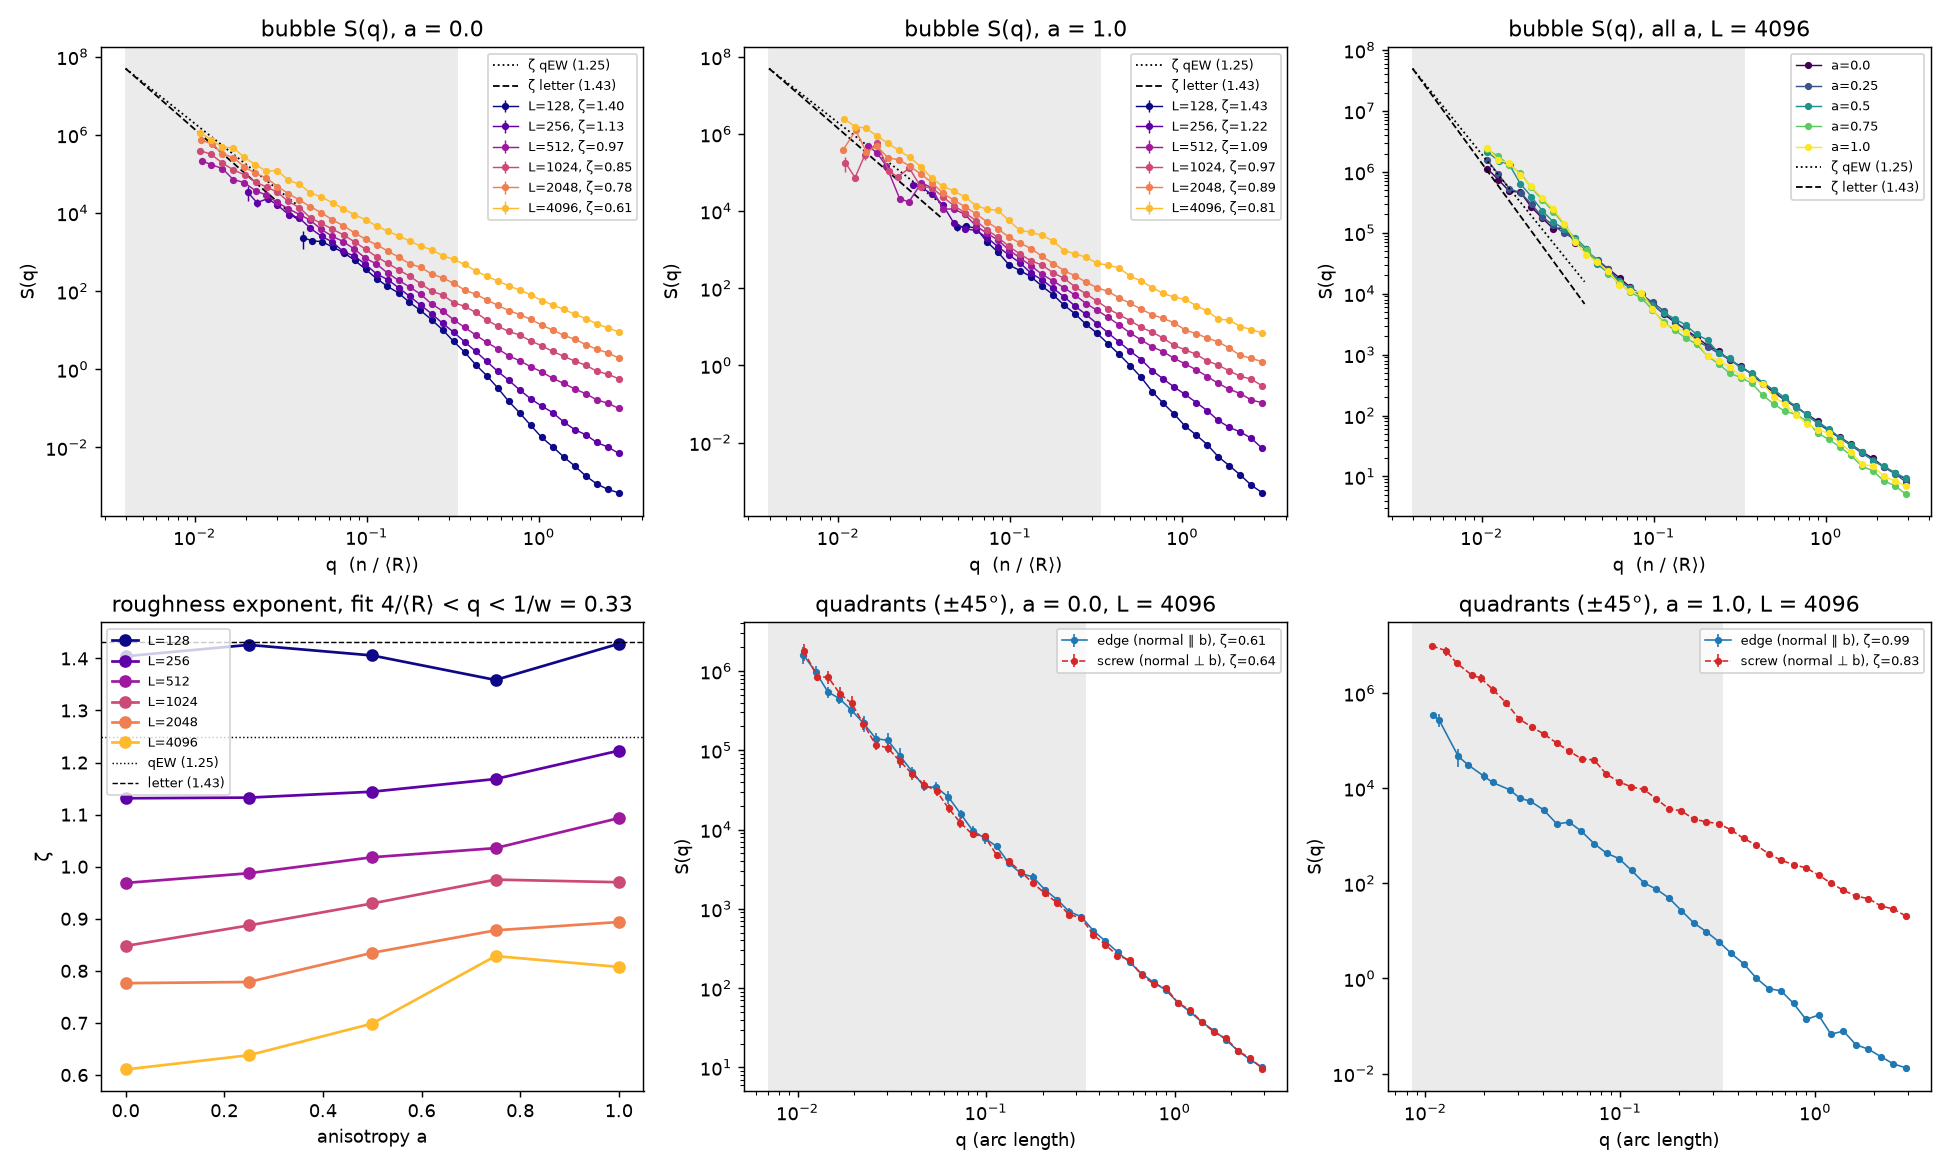
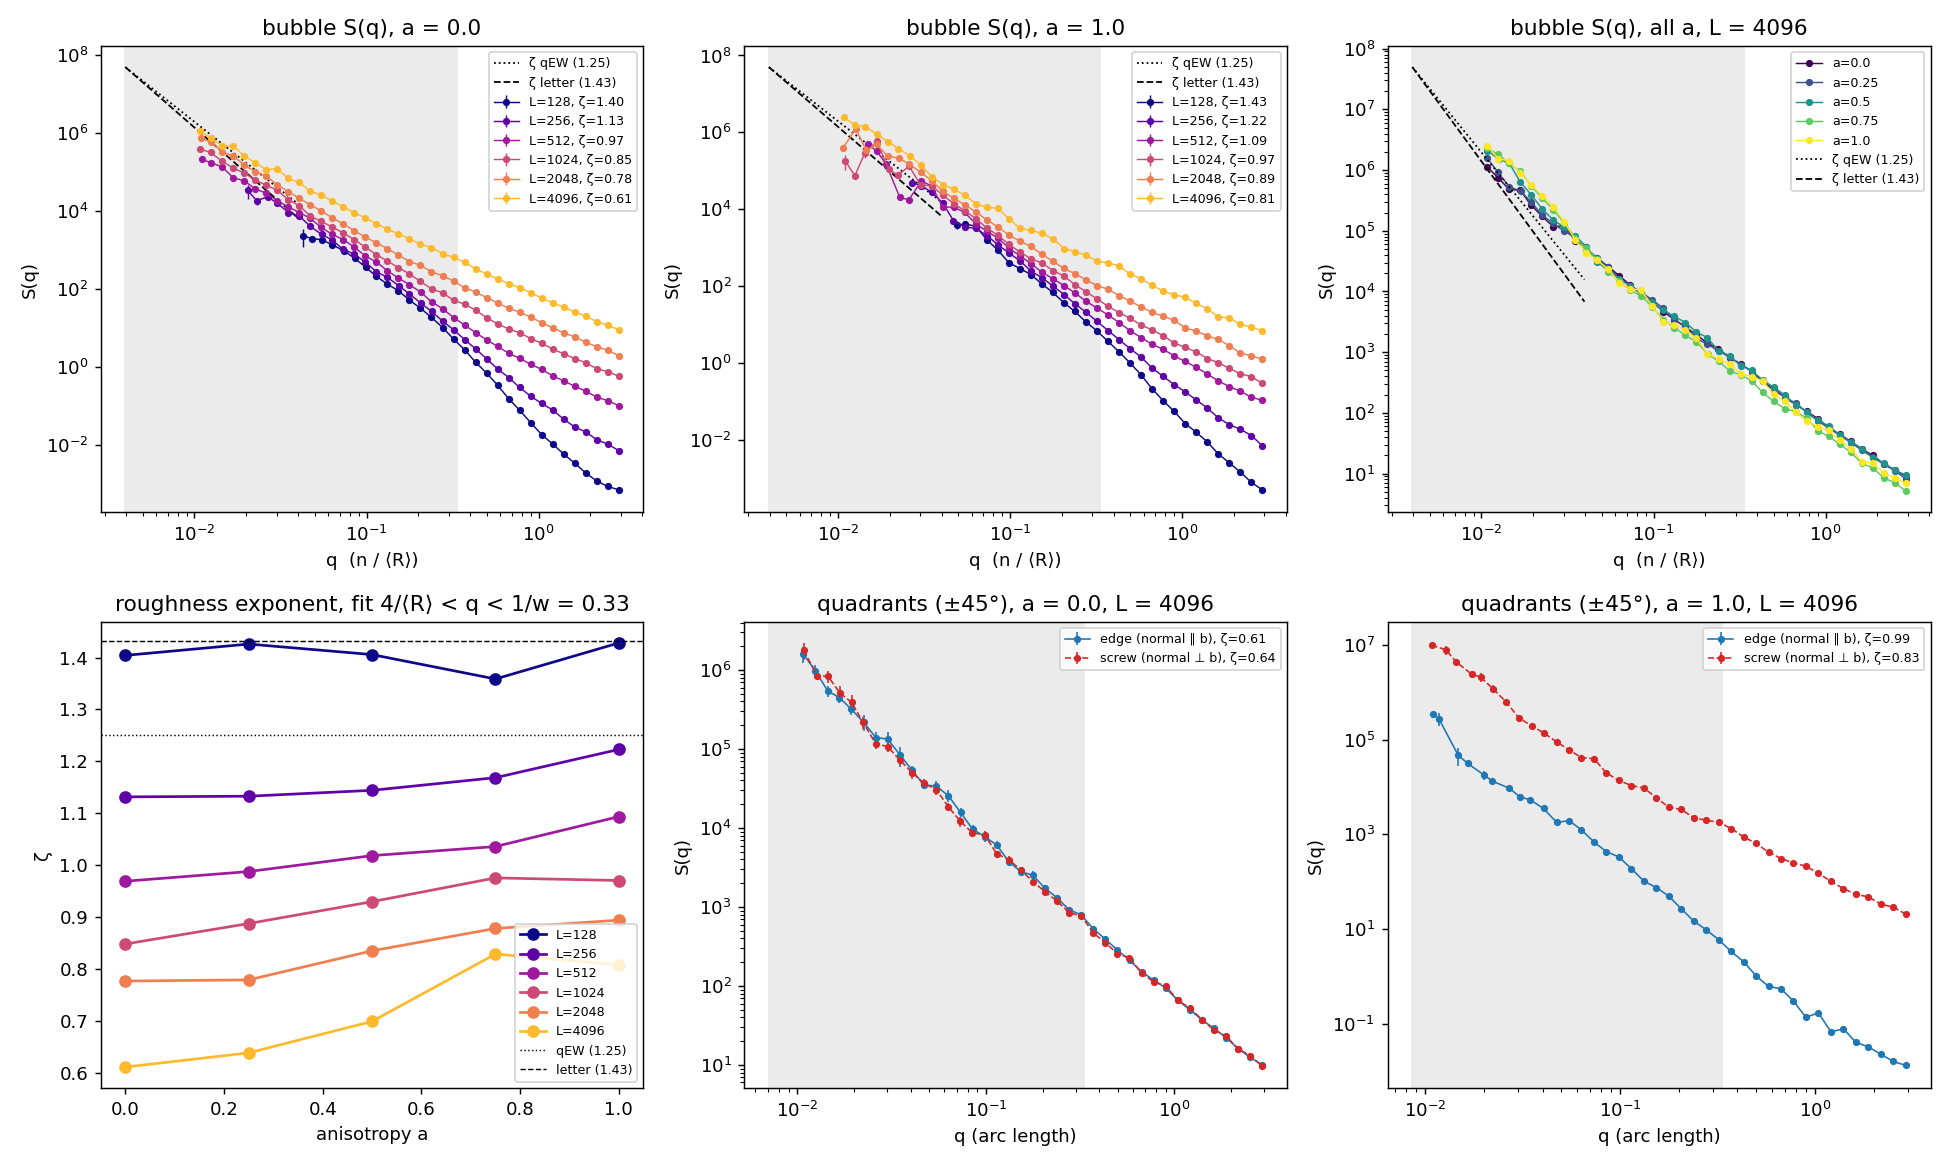
Threshold fit h_c + B/L - A L^(-1/nu) and ln L drift; replot L/6 and partial R32 series
<h_d>(L) has a minimum near L=1024, so the h_inf + B/L extrapolation is dropped.

diff --git a/bubble_sim/fss_analyze.py b/bubble_sim/fss_analyze.py
@@ -4,7 +4,19 @@ Analyse runs/fss/results*.jsonl produced by fss_scan.py (all shards).
 
 Per (anisotropy a, size L):
   * <h_d>, var(h_d)          -> var(h_d) ~ L^(-2/nu)  (fit per a)
-  * <h_d>(L)                 -> h_d(L) = h_inf + B / L  (bubble: Laplace pressure ~ 1/R_c ~ 1/L)
+  * <h_d>(L)                 -> h_d(L) = h_ref + C ln(L / L_max)   (fit L >= lmin)
+        <h_d> is not monotonic in L: the Laplace term ~ 1/R0 lowers it at small L,
+        but at large L it grows again (the wall has to cross the strongest pinning
+        region on its way to the border, and that grows with the swept area). An
+        extrapolation h_inf + B/L is therefore not meaningful; we report the local
+        drift C = d<h_d>/d ln L, the fitted value h_ref at the largest L, the
+        minimum of <h_d> over L, and chi^2/dof of both models.
+  * threshold                -> <h_d> = h_c + B/L - A L^(-1/nu)   (fit L >= lmin-hc)
+        B/L: Laplace pressure of a bubble of radius ~ L/6 (raises h_d at small L);
+        -A L^(-1/nu): usual finite-size shift of the sample threshold in an L x L box
+        (h_d is set by the strongest barrier the wall must cross; approaches h_c from
+        below). nu is fixed to the var(h_d) fit; the systematic error on h_c is half
+        the spread of h_c over nu +- its error.
   * shape anisotropy of the critical bubble:
         eps = (aspect - 1) / (aspect + 1),  theta = long-axis orientation
         Q_b = < eps cos 2(theta - theta_exp) >   theta_exp = burgers_angle + 90
@@ -48,6 +60,8 @@ def main():
     ap.add_argument("--lmin", type=int, default=512,
                     help="fit <h_d> and var(h_d) only for L >= lmin (small bubbles still remember "
                          "the initial circle and are dominated by the Laplace term)")
+    ap.add_argument("--lmin-hc", type=int, default=256,
+                    help="fit <h_d> = h_c + B/L - A L^(-1/nu) for L >= lmin-hc")
     args = ap.parse_args()
     import glob
     rows = [json.loads(l) for fn in sorted(glob.glob(os.path.join(args.dir, "results*.jsonl")))
@@ -104,16 +118,46 @@ def main():
         (ic, sl), cv = wls(np.c_[np.ones_like(L), np.log(L)], np.log(v), sv)
         nu = -2 / sl
         nu_err = 2 / sl ** 2 * np.sqrt(cv[1, 1])
-        # <h_d> = h_inf + B / L, weighted by the standard errors
+        # <h_d> = h_ref + C ln(L / L_max), weighted by the standard errors
         m = np.array([s["hd_mean"] for s in S])
         sm = np.array([s["hd_err"] for s in S])
-        (hinf, B), ch = wls(np.c_[np.ones_like(L), 1 / L], m, sm)
-        plateau = np.sum(m / sm ** 2) / np.sum(1 / sm ** 2)
-        fits[a] = dict(slope=sl, ic=ic, nu=nu, nu_err=nu_err, hinf=hinf, hinf_err=np.sqrt(ch[0, 0]), B=B,
-                       plateau=plateau, plateau_err=1 / np.sqrt(np.sum(1 / sm ** 2)), Lfit=L)
+        Lref = L.max()
+        A_log = np.c_[np.ones_like(L), np.log(L / Lref)]
+        (href, C), ch = wls(A_log, m, sm)
+        dof = max(1, len(L) - 2)
+        chi2_log = float(np.sum(((m - A_log @ [href, C]) / sm) ** 2)) / dof
+        A_inv = np.c_[np.ones_like(L), 1 / L]
+        c_inv, _ = wls(A_inv, m, sm)
+        chi2_inv = float(np.sum(((m - A_inv @ c_inv) / sm) ** 2)) / dof
+        Sall = [s for s in summ if s["aniso"] == a]
+        # <h_d> = h_c + B/L - A L^(-1/nu), nu fixed from var(h_d)
+        H = [s for s in Sall if s["n"] > 2 and s["L"] >= args.lmin_hc]
+        LH = np.array([s["L"] for s in H], float)
+        mH = np.array([s["hd_mean"] for s in H]); sH = np.array([s["hd_err"] for s in H])
+
+        def hc_fit(nu_):
+            A_ = np.c_[np.ones_like(LH), 1 / LH, -LH ** (-1 / nu_)]
+            c_, C_ = wls(A_, mH, sH)
+            return c_, C_, float(np.sum(((mH - A_ @ c_) / sH) ** 2)) / max(1, len(LH) - 3)
+
+        hc = dict(hc=np.nan, hc_err=np.nan, hc_syst=np.nan, hcB=np.nan, hcA=np.nan, chi2_hc=np.nan, Lhc=LH)
+        if len(LH) >= 4 and nu > 0:
+            c3, C3, chi3 = hc_fit(nu)
+            alt = [hc_fit(max(0.5, nu + d))[0][0] for d in (-nu_err, nu_err)]
+            hc.update(hc=c3[0], hc_err=np.sqrt(C3[0, 0]), hc_syst=0.5 * abs(alt[1] - alt[0]),
+                      hcB=c3[1], hcA=c3[2], chi2_hc=chi3)
+        imin = int(np.argmin([s["hd_mean"] for s in Sall]))
+        fits[a] = dict(slope=sl, ic=ic, nu=nu, nu_err=nu_err, href=href, href_err=np.sqrt(ch[0, 0]),
+                       C=C, C_err=np.sqrt(ch[1, 1]), Lref=Lref, chi2_log=chi2_log, chi2_inv=chi2_inv,
+                       hmin=Sall[imin]["hd_mean"], hmin_err=Sall[imin]["hd_err"], Lmin_h=Sall[imin]["L"], Lfit=L,
+                       **hc)
         print(f"a={a:4.2f} (L>={args.lmin}): var(h_d) ~ L^{sl:.2f} -> nu = {nu:.2f} +- {nu_err:.2f};  "
-              f"<h_d> = {hinf:.5f}({np.sqrt(ch[0, 0]) * 1e5:.0f}) + {B:.2f}/L;  "
-              f"plateau {plateau:.5f}({fits[a]['plateau_err'] * 1e5:.0f})")
+              f"<h_d> = {href:.5f}({np.sqrt(ch[0, 0]) * 1e5:.0f}) + {C * 1e4:+.2f}({np.sqrt(ch[1, 1]) * 1e4:.2f})e-4 "
+              f"ln(L/{Lref:.0f})  chi2/dof {chi2_log:.1f} (h_inf+B/L: {chi2_inv:.1f});  "
+              f"min <h_d> {fits[a]['hmin']:.5f} at L={fits[a]['Lmin_h']}")
+        if np.isfinite(hc["hc"]):
+            print(f"        (L>={args.lmin_hc}, nu={nu:.2f}): h_c = {hc['hc']:.5f} +- {hc['hc_err']:.5f} (stat) "
+                  f"+- {hc['hc_syst']:.5f} (nu)   B={hc['hcB']:.2f}  A={hc['hcA']:.3f}  chi2/dof {hc['chi2_hc']:.1f}")
 
     import matplotlib
     matplotlib.use("Agg")
@@ -126,13 +170,16 @@ def main():
     for a in As:
         S = [s for s in summ if s["aniso"] == a]
         L = np.array([s["L"] for s in S])
-        ax.errorbar(1 / L, [s["hd_mean"] for s in S], [s["hd_err"] for s in S], fmt="o", color=cols[a], label=f"a={a}")
-        if a in fits:
-            x = np.linspace(0, 1 / fits[a]["Lfit"].min() * 1.05, 50)
-            ax.plot(x, fits[a]["hinf"] + fits[a]["B"] * x, "-", color=cols[a], lw=0.8)
-    ax.axvspan(0, 1 / args.lmin, color="0.93", zorder=-1)
-    ax.set_xlabel("1/L"); ax.set_ylabel(r"$\langle h_d\rangle$"); ax.set_xlim(left=0); ax.legend(fontsize=8)
-    ax.set_title(rf"mean depinning field, fit $h_\infty + B/L$ for $L\geq{args.lmin}$")
+        f = fits.get(a)
+        ax.errorbar(L, [s["hd_mean"] for s in S], [s["hd_err"] for s in S], fmt="o", color=cols[a],
+                    label=f"a={a}" + (f", C={f['C'] * 1e4:+.1f}±{f['C_err'] * 1e4:.1f}e-4" if f else ""))
+        if f and np.isfinite(f["hc"]):
+            x = np.geomspace(f["Lhc"].min() / 1.1, f["Lhc"].max() * 1.1, 80)
+            ax.plot(x, f["hc"] + f["hcB"] / x - f["hcA"] * x ** (-1 / f["nu"]), "-", color=cols[a], lw=0.8)
+            ax.axhline(f["hc"], color=cols[a], ls=":", lw=0.7)
+    ax.axvspan(args.lmin_hc, max(Ls) * 1.1, color="0.93", zorder=-1)
+    ax.set_xscale("log"); ax.set_xlabel("L"); ax.set_ylabel(r"$\langle h_d\rangle$"); ax.legend(fontsize=7)
+    ax.set_title(rf"$\langle h_d\rangle = h_c + B/L - A L^{{-1/\nu}}$, $L\geq{args.lmin_hc}$ (dotted: $h_c$)", fontsize=10)
 
     ax = axs[0, 1]
     for a in As:
@@ -161,15 +208,16 @@ def main():
         ax.axhline(4 / 3, color="k", ls=":", lw=0.8, label="qEW / white (1.33)")
         ax.axhline(1.76, color="k", ls="--", lw=0.8, label="letter, correlated (1.76)")
         ax2 = ax.twinx()
-        ax2.errorbar(aa, [fits[a]["hinf"] for a in aa], [fits[a]["hinf_err"] for a in aa], fmt="s-",
-                     color="C3", label=r"$h_\infty$ (fit)")
-        ax2.errorbar(aa, [fits[a]["plateau"] for a in aa], [fits[a]["plateau_err"] for a in aa], fmt="^--",
-                     color="C1", label=rf"plateau, mean over $L\geq{args.lmin}$")
-        ax2.set_ylabel(r"$h_\infty$", color="C3")
+        ax2.errorbar(aa, [fits[a]["hc"] for a in aa],
+                     [np.hypot(fits[a]["hc_err"], fits[a]["hc_syst"]) for a in aa], fmt="s-",
+                     color="C3", label=r"$h_c$ (stat $\oplus$ $\nu$ syst)")
+        ax2.errorbar(aa, [fits[a]["hmin"] for a in aa], [fits[a]["hmin_err"] for a in aa], fmt="^--",
+                     color="C1", label=r"min over L of $\langle h_d\rangle$")
+        ax2.set_ylabel(r"$\langle h_d\rangle$", color="C3")
         h1, l1 = ax.get_legend_handles_labels(); h2, l2 = ax2.get_legend_handles_labels()
         ax.legend(h1 + h2, l1 + l2, fontsize=7, loc="center left")
         ax.set_xlabel("anisotropy a"); ax.set_ylabel(r"$\nu$")
-        ax.set_title("exponent and extrapolated threshold vs anisotropy")
+        ax.set_title("exponent and threshold vs anisotropy")
 
     ax = axs[1, 0]
     for L in Ls:

diff --git a/bubble_sim/README.md b/bubble_sim/README.md
@@ -41,7 +41,7 @@ spectrum, a = 1, at fixed radial spectrum and variance). `R0 = L/6` (`--r0` sets
 go to `runs/fss/results*.jsonl` (+ critical configurations in
 `runs/fss/configs/`); restarting skips finished samples.
 `fss_analyze.py` makes `runs/fss/summary.csv` and `runs/fss/fss_summary.png`
-(⟨h_d⟩ vs 1/L, var(h_d) ~ L^(−2/ν), bubble elongation vs a, overhangs).
+(⟨h_d⟩ vs L with its drift d⟨h_d⟩/d ln L — not monotonic, so no 1/L extrapolation —, var(h_d) ~ L^(−2/ν), bubble elongation vs a, overhangs).
 
 `fss_shapes.py` looks at the critical bubbles themselves:
 `bubbles.png` (snapshots, mean shape ⟨R(θ)⟩/R_eff, overhang probability vs θ)
